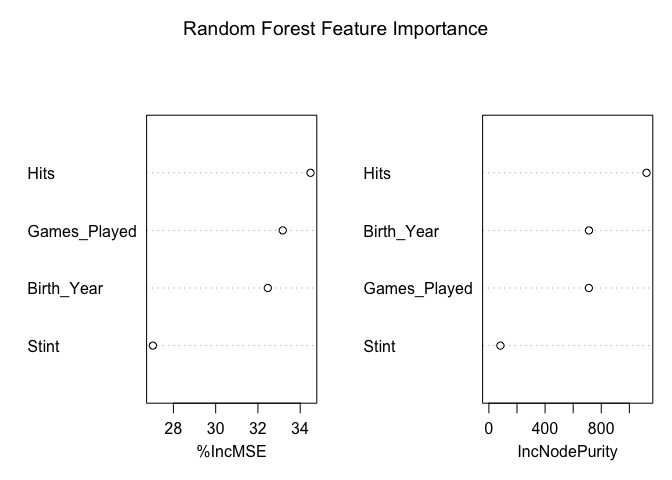
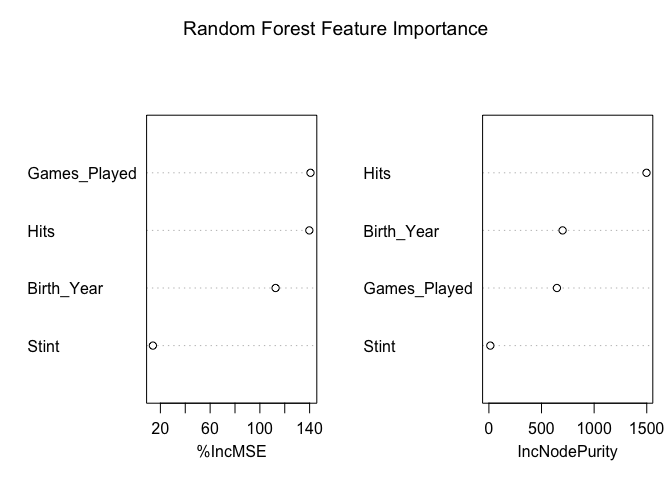
changed number of trees

diff --git a/README.md b/README.md
@@ -517,14 +517,14 @@ possible non-linear relationships, interactions, and unmeasured factors,
 so we are using the randomForest test instead, which handles
 non-linearity and interactions.
 
-R-squared improved to 0.1882189, meaning the model explains 18.82% of
+R-squared improved to 0.1923417, meaning the model explains 19.23% of
 variance in Logged_Salary.
 
-RMSE increased to 1.2542518, meaning he model’s predictions are now off
-by about 1.254 log-salary units on average
+RMSE increased to 1.2332885, meaning he model’s predictions are now off
+by about 1.23 log-salary units on average
 
-MAE decreased to 1.0450920, meaning now the average absolute prediction
-error is about 1.045 log-salary units
+MAE decreased to 1.0202420, meaning now the average absolute prediction
+error is about 1.02 log-salary units
 
 The model is still under-fitting.
 
